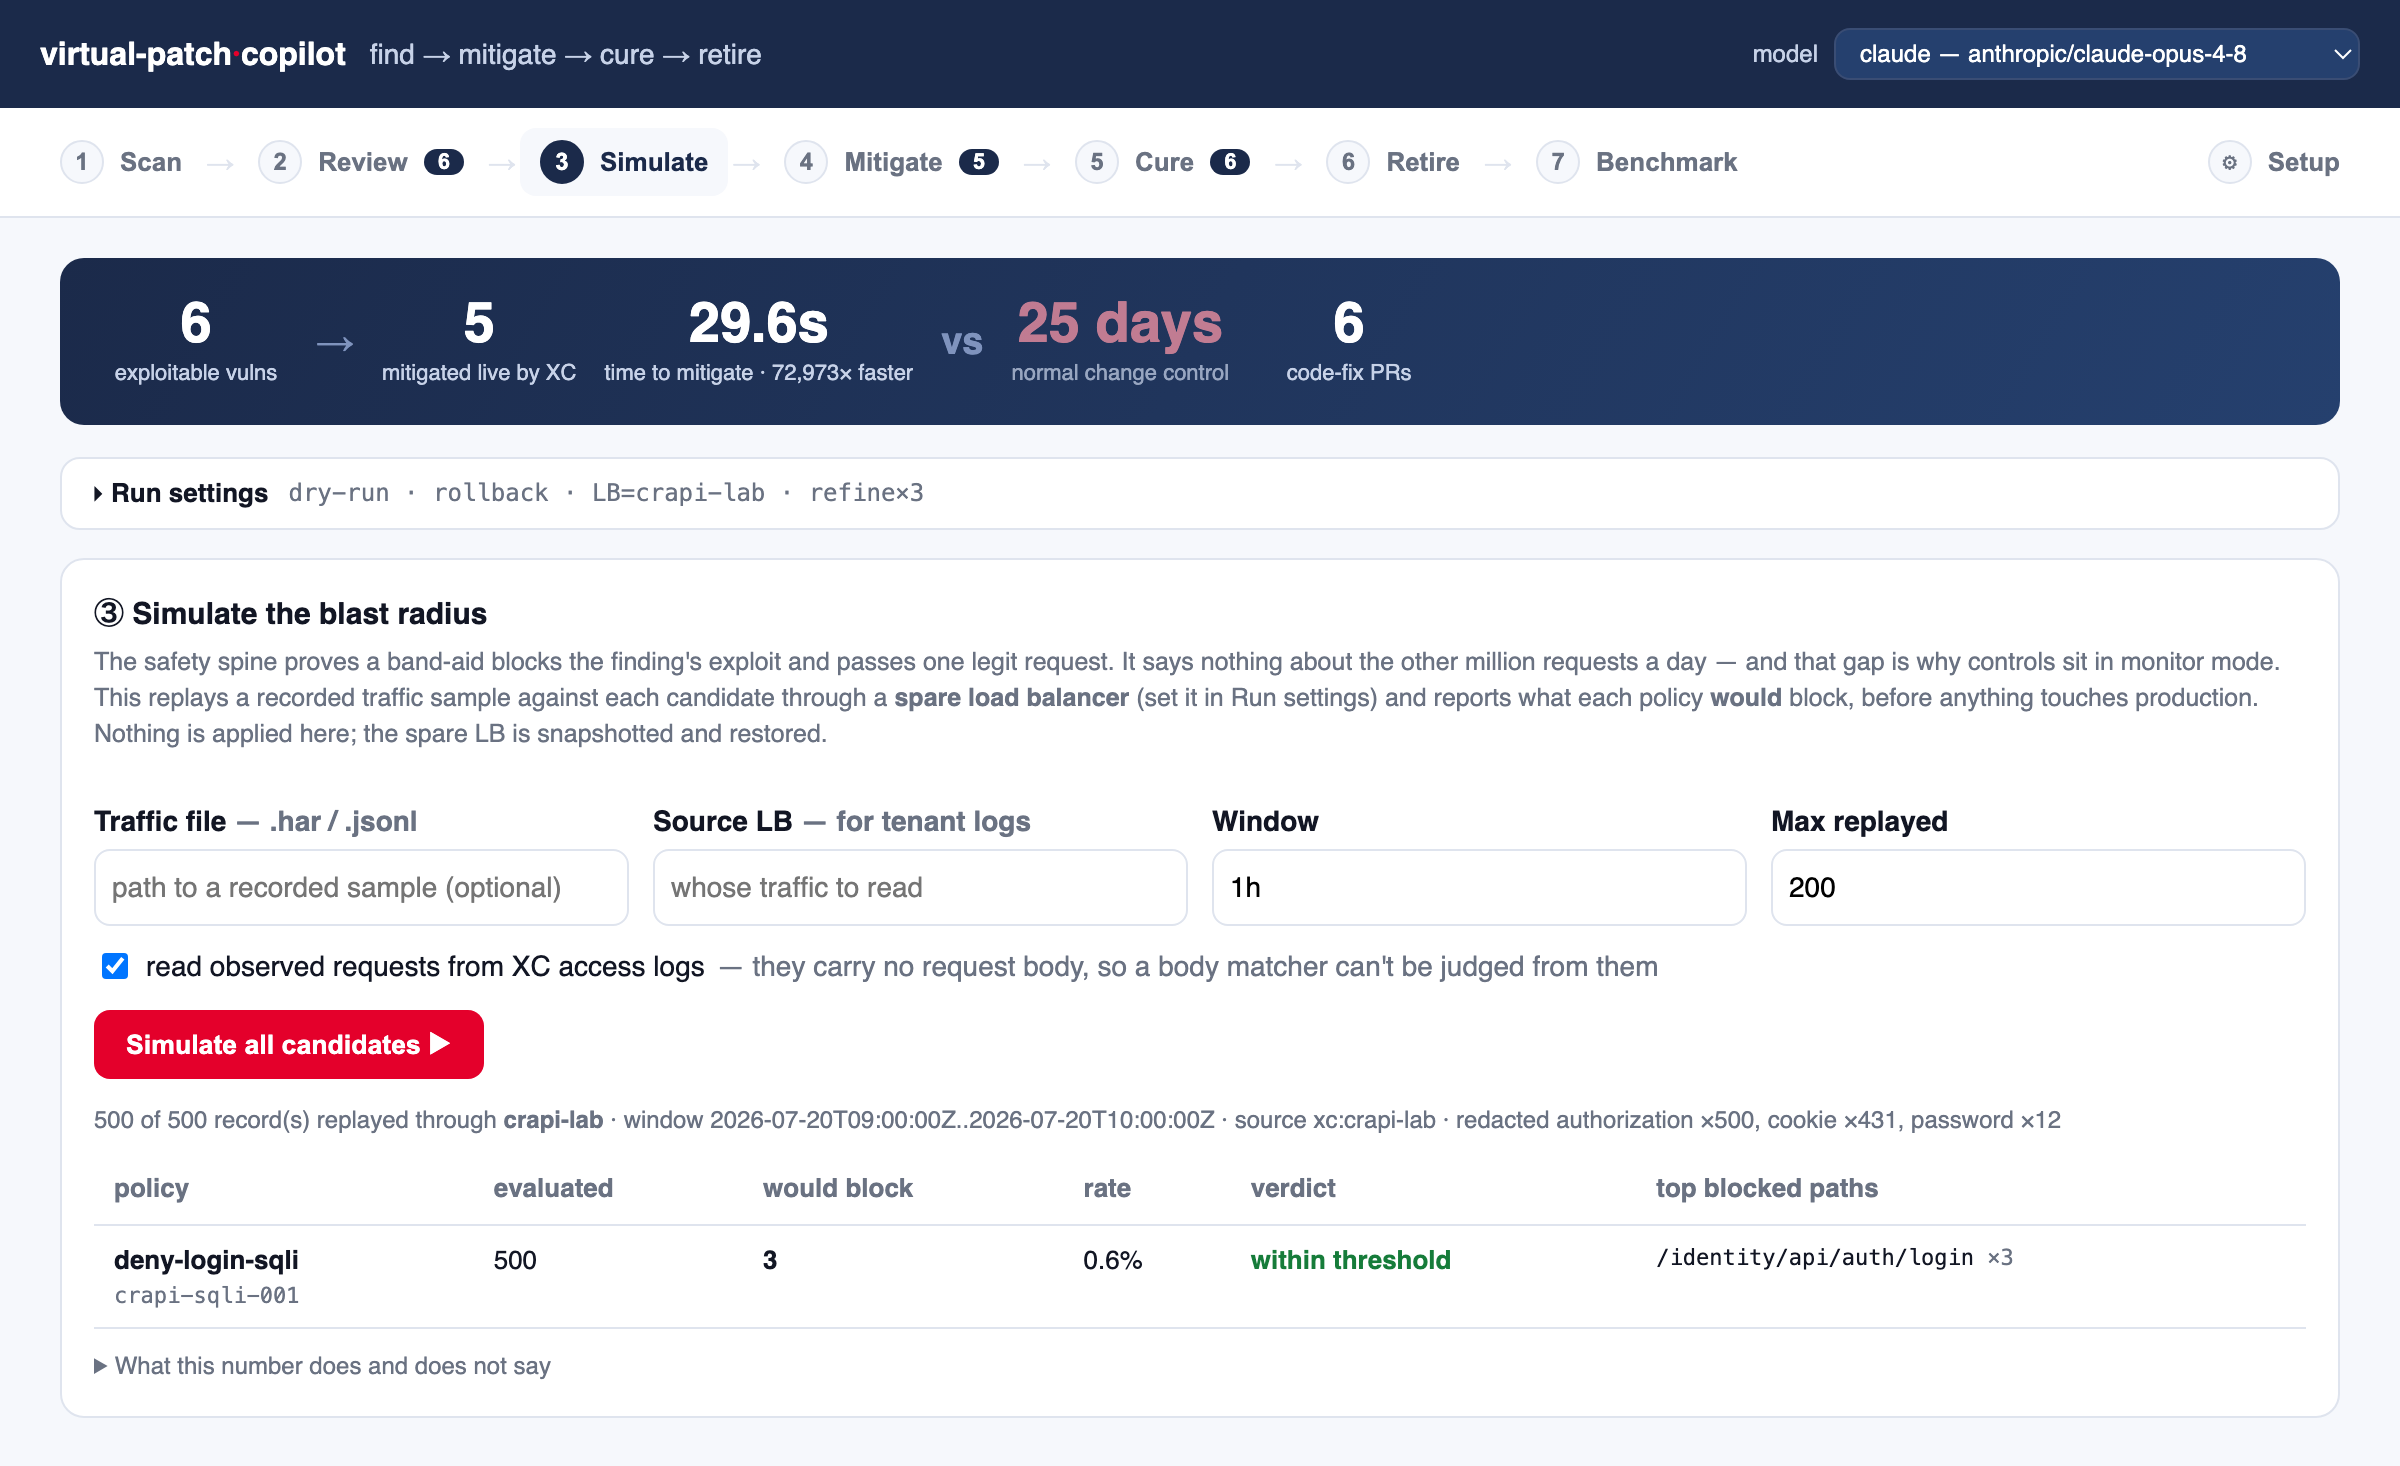
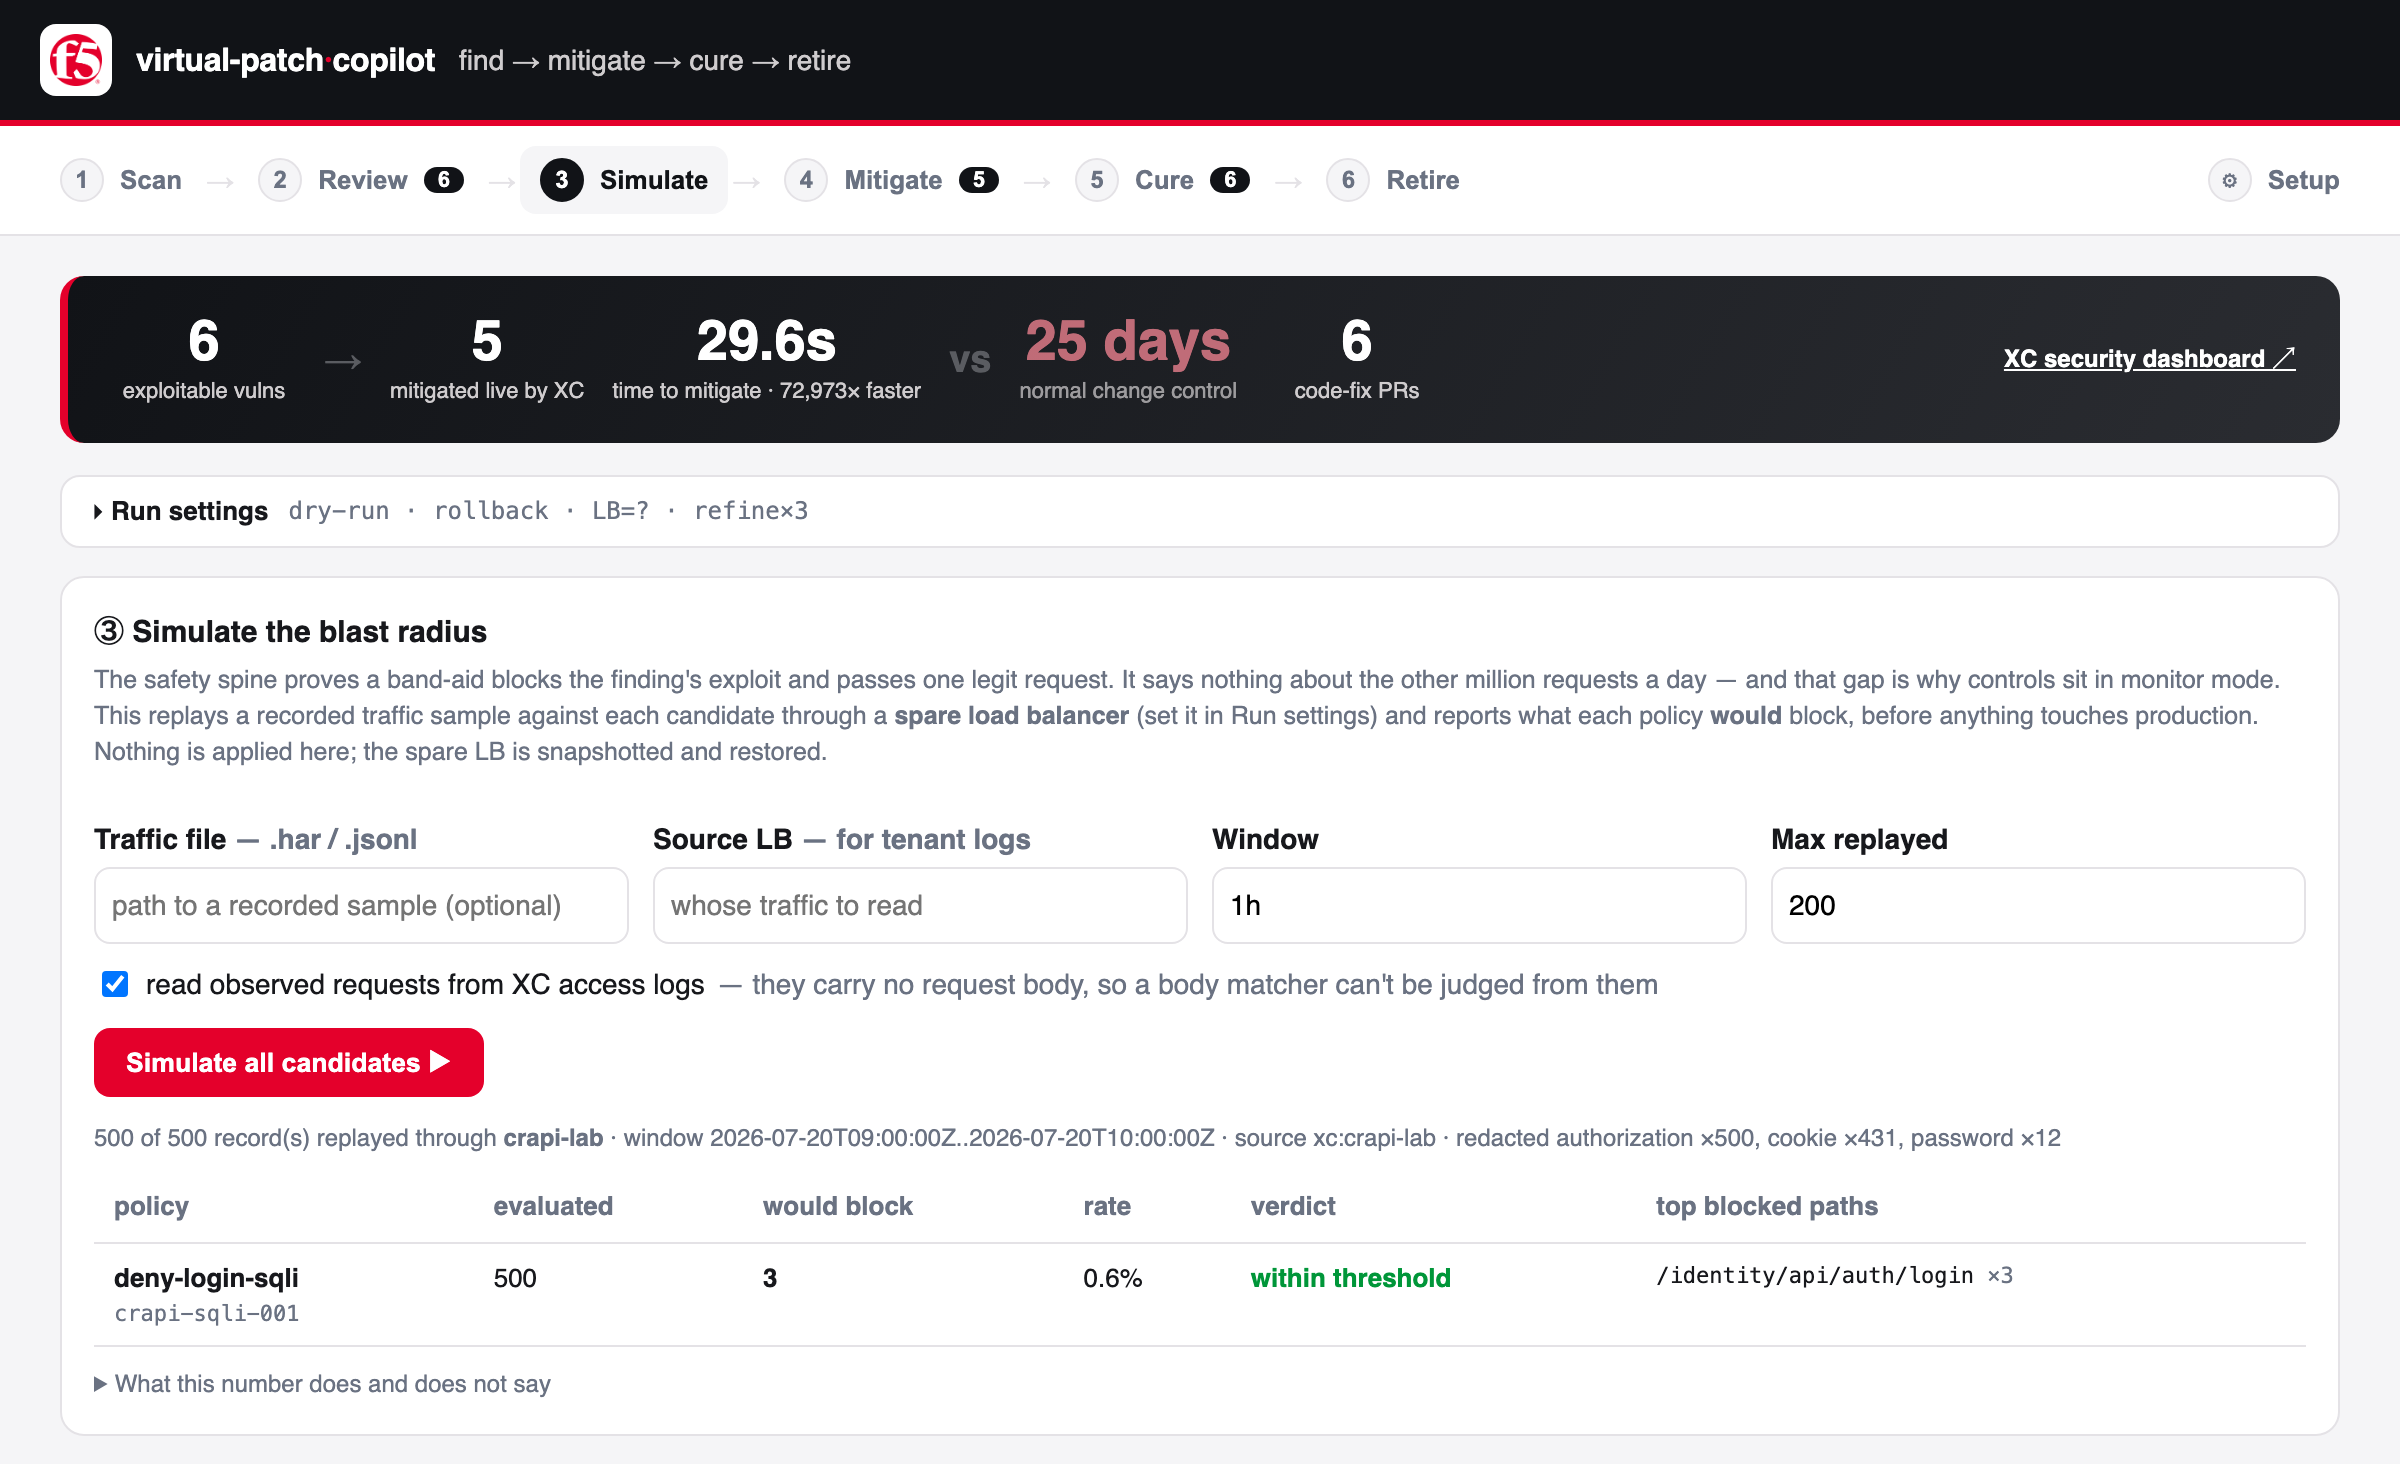
docs: refresh README + USAGE/DEMO for the 0.2.0 console (reskin, simplified UI)
The docs and screenshots still showed the pre-0.2.0 console — the old navy
theme, a permanent seven-step nav, and an always-on model switcher.

- Regenerated the four console screenshots (Review, Simulate, Mitigate, Retire)
  from the canonical demo dataset in the everyday view: F5-branded (black header
  + F5 logo + red accents), six steps, and the new surfaces visible (CWE/OWASP
  mapping on Review, the patch-expiry/TTL table on Retire).
- README console section: "seven steps" -> six; Benchmark + the live model
  switcher reframed as advanced-mode only (VPCOPILOT_ADVANCED or >1 config);
  noted the Advanced disclosures, the F5 branding, and the CVE/manifest/OpenAPI
  scan inputs; retire caption now mentions patch-expiry/reconcile.
- USAGE.md + DEMO.md: same advanced-mode framing for the ⑦ Benchmark step and
  the model switcher.

diff --git a/README.md b/README.md
@@ -39,6 +39,8 @@ repo ─▶ discover ─▶ verify ─▶ triage ─▶ generate ─┬▶ apply
 
 - **discover → verify** find candidates and adversarially refute the weak ones (calibrated,
   severity-weighted confidence gate; each distinct vuln reported once, with its effective endpoint).
+  The input can be a repo, a **CVE / advisory id** (resolved via OSV.dev), **dependency manifests**,
+  or an **OpenAPI spec** — alone or combined (a spec against a repo also reports spec-vs-code drift).
 - **triage** routes each finding to the strongest control: `service_policy` · `waf` ·
   `waf_data_guard` · `api_schema` · `malicious_user` · `bot_defense` · `rate_limit` — or
   code-only when no band-aid fits.
@@ -95,21 +97,28 @@ reference: **[docs/USAGE.md](docs/USAGE.md)**.
 
 ## The console
 
-A guided flow that follows the lifecycle — a persistent hero band (N exploitable → mitigated live
-in seconds vs. change-control days) sits on top of seven steps:
+An **F5-branded**, guided flow that follows the lifecycle — a persistent hero band (N exploitable →
+mitigated live in seconds vs. change-control days) sits on top of six steps:
 
-1. **Scan** — point at a repo; read-only, safe. The log holds the whole transcript in a scrollable
-   box, so a long run can be read end-to-end while it's still going.
-2. **Review** — findings + the recommended XC control; click a row to inspect exploit / code / policy.
+1. **Scan** — point at a repo (a CVE, dependency manifests, or an OpenAPI spec live under *Other
+   inputs*); read-only, safe. The log holds the whole transcript in a scrollable box, so a long run
+   can be read end-to-end while it's still going.
+2. **Review** — findings + the recommended XC control (with the CWE / OWASP-API mapping); click a row
+   to inspect exploit / code / policy.
 3. **Simulate** — replay a recorded traffic sample against each candidate through a spare LB and see
    what it *would* block before anything touches production. A policy over the false-positive
    threshold warns at the gate and needs an explicit, audited override.
-4. **Mitigate** — apply each band-aid live; the refiner streams `before 200 → after 403 BLOCKED`
-   with a *self-healed in N attempts* / *unfixable → ship the code fix* badge.
+4. **Mitigate** — one click per finding (or *Mitigate ALL*) applies each band-aid live: attach →
+   validate against the finding's real exploit → self-heal or ship the code fix. Dry-run rehearses
+   first.
 5. **Cure** — open the code-fix PR for each finding.
-6. **Retire** — the four-state ledger track, and the **audit trail** of every change made to a load
-   balancer — exportable as an evidence bundle.
-7. **Benchmark** — build a model-tagged report from this run, then compare models side by side.
+6. **Retire** — patch-expiry (each band-aid carries a TTL) and a **reconcile** loop that re-fires the
+   exploit at the origin once the cure PR lands, the four-state ledger, and the **audit trail** of
+   every change made to a load balancer — exportable as an evidence bundle.
+
+The everyday path stays uncluttered: secondary inputs, tuning knobs, and integration panels sit
+behind *Advanced* disclosures. A model-comparison **Benchmark** step and a live model switcher appear
+in **advanced mode** — set `VPCOPILOT_ADVANCED`, or keep more than one `config/agents*.yaml`.
 
 The shareable HTML report opens (or downloads) from **Review** and from **Setup** — it is rebuilt
 from the current run dir on every open, so it's always the latest run. Credentials, XC status, and
@@ -121,14 +130,15 @@ requests, all of them attacks on the login endpoint:
 
 ![Simulate step — blast radius](docs/images/3-simulate.png)
 
-**④ Mitigate** — apply each band-aid and watch it validate:
+**④ Mitigate** — one click per finding (or *Mitigate ALL*) applies and validates each band-aid live:
 
 ![Mitigate step](docs/images/4-mitigate.png)
 
-**⑥ Retire** — the four-state ledger (here `crapi-sqli-001` walked all the way to *retired*), and
-under it the audit trail: each change tied to the vulnerability that justified it, the LB and XC
-namespace it touched, whether it's still live, and who ran it. Dry runs are absent by design —
-nothing changed, so there is nothing to answer for.
+**⑥ Retire** — patch-expiry (band-aids past their TTL, flagged for reconcile), the four-state ledger
+(here `crapi-sqli-001` walked all the way to *retired*), and under it the audit trail: each change
+tied to the vulnerability that justified it, the LB and XC namespace it touched, whether it's still
+live, and who ran it. Dry runs are absent by design — nothing changed, so there is nothing to answer
+for.
 
 ![Retire step — ledger and audit trail](docs/images/6-retire.png)
 

diff --git a/docs/USAGE.md b/docs/USAGE.md
@@ -453,8 +453,11 @@ the latest run.
 vpcopilot console         # http://127.0.0.1:8787
 ```
 A six-step stepper that follows the lifecycle, plus a **⚙ Setup** page. A persistent hero band
-(exploitable vulns → mitigated live in seconds, vs. change-control days) sits above every step, the
-header carries a live model switcher, and each step is deep-linkable (`#mitigate`, `#retire`, …).
+(exploitable vulns → mitigated live in seconds, vs. change-control days) sits above every step, and
+each step is deep-linkable (`#mitigate`, `#retire`, …). Secondary inputs, tuning knobs, and
+integration panels sit behind *Advanced* disclosures to keep the everyday path clean; a ⑦ Benchmark
+step and a live header model switcher appear only in **advanced mode** (set `VPCOPILOT_ADVANCED`, or
+keep more than one `config/agents*.yaml`).
 
 | Step | What |
 |---|---|
@@ -464,7 +467,7 @@ header carries a live model switcher, and each step is deep-linkable (`#mitigate
 | **④ Mitigate** | apply each band-aid (or **Mitigate ALL**, one at a time, continuing past failures) and watch `before → after` stream, with a *self-healed in N attempts* badge |
 | **⑤ Cure** | open the code-fix PR per finding, or all of them |
 | **⑥ Retire** | the four-state ledger track, plus the **Audit trail** table and **Export evidence bundle (.zip)** / **All runs** |
-| **⑦ Benchmark** | build a model-tagged report from this run, then compare models side by side per target app |
+| **⑦ Benchmark** *(advanced mode)* | build a model-tagged report from this run, then compare models side by side per target app |
 | **⚙ Setup** | credentials (writes `.env`), XC status, the per-agent model wiring, and the report buttons |
 
 ## 7b. The BIG-IP lab (L2)

diff --git a/docs/DEMO.md b/docs/DEMO.md
@@ -115,10 +115,12 @@ Two things worth saying while it downloads:
 - Overriding a protected load balancer writes its **own** audit event, so crossing a rail is
   visible to anyone scanning the trail rather than buried in a field of an ordinary record.
 
-### ⑦ Benchmark
+### ⑦ Benchmark *(advanced mode)*
 
-Compare models per agent. The point is that *nothing here is Anthropic-specific* — every agent's
-model is set in `config/agents.yaml`, and ⚙ Setup shows the current assignment for all eight.
+Compare models per agent — an evaluation view shown only in **advanced mode** (`VPCOPILOT_ADVANCED`,
+or more than one `config/agents*.yaml`), so the everyday user never meets it. The point is that
+*nothing here is Anthropic-specific* — every agent's model is set in `config/agents.yaml`, and ⚙
+Setup shows the current assignment for all eight.
 
 ---
 
